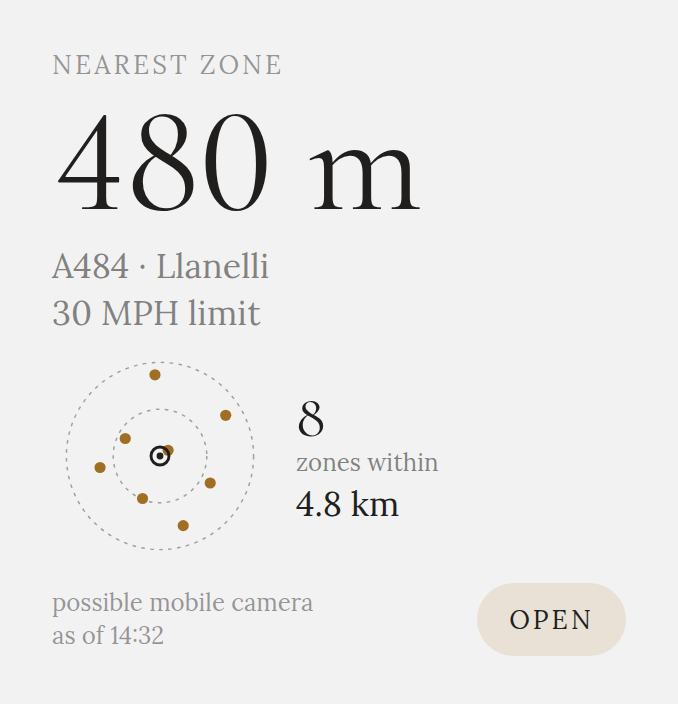
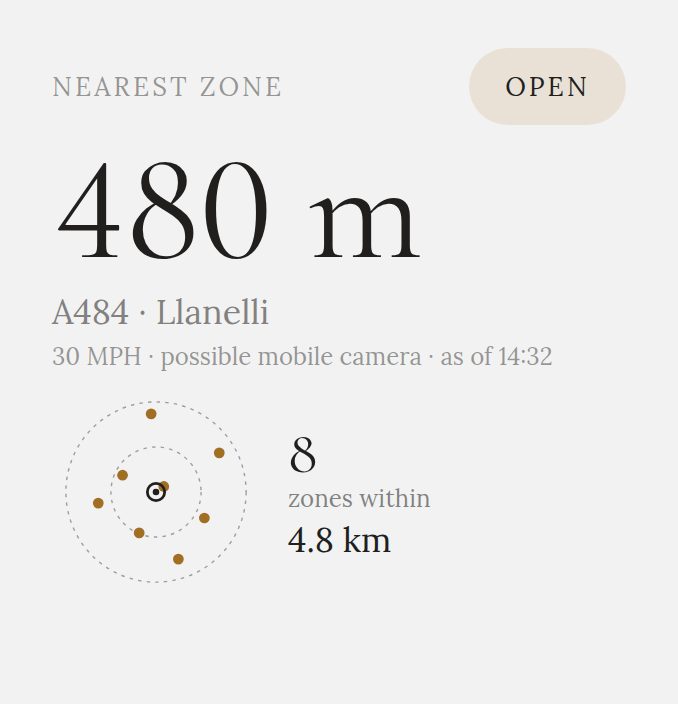
Put OPEN where it can be reached, and let a theme change arrive
Two faults, both mine, both found on the device.

The cover screen does not give a widget its whole declared height. The
bottom band is spoken for, so the OPEN button and the provenance line
were unreadable and untappable down there. Everything hangs from the top
now, with OPEN on the first line — the one place on a cover screen
guaranteed to be both visible and reachable — and the slack at the
bottom where losing it costs nothing. The diagram goes last on purpose:
it is the one element that still reads with its outer ring cut off.

And the widget kept its old palette after the app's Appearance changed.
The summary's writes are throttled, because a driving fix arrives every
second and redrawing that often would be waste — but the throttle is
about position and was gating everything. A changed setting sat unseen
until the driver moved a hundred metres, which from an armchair is
forever. `shouldRefresh` now separates the two: position is throttled,
anything else — the palette, a newly published list, gaining a fix —
writes immediately. It is a pure function with tests, including one
named for this bug, because the failure is invisible until someone
happens to notice the widget disagreeing with the app.

Claude-Session: https://claude.ai/code/session_01BnrkekNYJBbs8uTjYCXUX4

diff --git a/widgets/VergeWidget.tsx b/widgets/VergeWidget.tsx
@@ -86,63 +86,86 @@ export function VergeWidget({
 
   if (variant === 'cover') {
     const limit = summary?.nearestLimitMph;
+    const stamp = summary && showDistance ? ` · as of ${clock(summary.at)}` : '';
     return (
       <FlexWidget
+        clickAction="OPEN_APP"
         style={{
           height: 'match_parent',
           width: 'match_parent',
           flexDirection: 'column',
-          justifyContent: 'space-between',
+          // Everything hangs from the top. The cover screen does not give a
+          // widget its whole declared height — the bottom band is spoken for,
+          // and anything put there is unreadable and cannot be tapped. So the
+          // slack goes at the bottom, where losing it costs nothing.
+          justifyContent: 'flex-start',
           backgroundColor: ground,
           borderRadius: s.radius,
           paddingHorizontal: s.pad,
           paddingVertical: s.padY,
         }}
       >
-        {/* Tapping the reading opens the app too — the button is for finding, */}
-        {/* not for gatekeeping. */}
-        <FlexWidget clickAction="OPEN_APP" style={{ flexDirection: 'column', width: 'match_parent' }}>
+        {/* The way into the app sits on the top line, the one place on a cover */}
+        {/* screen guaranteed to be both visible and reachable. */}
+        <FlexWidget
+          style={{
+            flexDirection: 'row',
+            alignItems: 'center',
+            justifyContent: 'space-between',
+            width: 'match_parent',
+          }}
+        >
           <TextWidget
             text={showDistance ? 'NEAREST ZONE' : 'PUBLISHED ZONES'}
             style={{ fontSize: s.kicker, letterSpacing: 1.4, color: faint, fontFamily: 'Lora' }}
           />
-          <TextWidget
-            text={headline}
-            style={{ fontSize: s.headline, color: ink, fontFamily: 'CormorantGaramond', marginTop: 2 }}
-          />
-          <TextWidget
-            text={caption}
-            maxLines={2}
-            style={{ fontSize: s.caption, color: muted, fontFamily: 'Lora', marginTop: 4 }}
-          />
-          {limit ? (
+          <FlexWidget
+            clickAction="OPEN_APP"
+            style={{
+              paddingHorizontal: 18,
+              paddingVertical: 11,
+              borderRadius: 22,
+              backgroundColor: accentWash,
+            }}
+          >
             <TextWidget
-              text={`${limit} MPH limit`}
-              style={{ fontSize: s.caption, color: muted, fontFamily: 'Lora', marginTop: 2 }}
+              text="OPEN"
+              style={{ fontSize: s.kicker, letterSpacing: 1.6, color: ink, fontFamily: 'Lora' }}
             />
-          ) : (
-            <FlexWidget style={{ width: 0, height: 0 }} />
-          )}
+          </FlexWidget>
         </FlexWidget>
 
+        <TextWidget
+          text={headline}
+          style={{ fontSize: s.headline, color: ink, fontFamily: 'CormorantGaramond', marginTop: 4 }}
+        />
+        <TextWidget
+          text={caption}
+          maxLines={2}
+          style={{ fontSize: s.caption, color: muted, fontFamily: 'Lora', marginTop: 2 }}
+        />
+        <TextWidget
+          text={`${limit ? `${limit} MPH · ` : ''}possible mobile camera${stamp}`}
+          maxLines={2}
+          style={{ fontSize: s.foot, color: faint, fontFamily: 'Lora', marginTop: 4 }}
+        />
+
         {/*
-          The ground around you: zones as marks, you at the centre, two range
-          rings. Drawn from what the app already knows rather than fetched, so
-          it costs nothing and works with no signal.
+          Last, because it is the one thing that still reads when its bottom
+          edge is lost: a diagram missing its outer ring is still a diagram.
         */}
         {summary && summary.nearby.length ? (
           <FlexWidget
-            clickAction="OPEN_APP"
             style={{
               flexDirection: 'row',
               alignItems: 'center',
               width: 'match_parent',
-              marginTop: 6,
+              marginTop: 8,
             }}
           >
             <SvgWidget
               svg={localitySvg(summary.nearby, { mark: markInk, ring: ringInk, ink })}
-              style={{ width: 108, height: 108 }}
+              style={{ width: 104, height: 104 }}
             />
             <FlexWidget style={{ flexDirection: 'column', marginLeft: 14 }}>
               <TextWidget
@@ -162,47 +185,6 @@ export function VergeWidget({
         ) : (
           <FlexWidget style={{ width: 0, height: 0 }} />
         )}
-
-        <FlexWidget
-          style={{
-            flexDirection: 'row',
-            alignItems: 'center',
-            justifyContent: 'space-between',
-            width: 'match_parent',
-          }}
-        >
-          <FlexWidget style={{ flexDirection: 'column', flexGap: 0, width: 'wrap_content' }}>
-            <TextWidget
-              text="possible mobile camera"
-              style={{ fontSize: s.foot, color: faint, fontFamily: 'Lora' }}
-            />
-            {summary && showDistance ? (
-              <TextWidget
-                text={`as of ${clock(summary.at)}`}
-                style={{ fontSize: s.foot, color: faint, fontFamily: 'Lora', marginTop: 1 }}
-              />
-            ) : (
-              <FlexWidget style={{ width: 0, height: 0 }} />
-            )}
-          </FlexWidget>
-
-          {/* A real target rather than a hint: the whole point of the widget is */}
-          {/* getting to the live map without unfolding the phone. */}
-          <FlexWidget
-            clickAction="OPEN_APP"
-            style={{
-              paddingHorizontal: 16,
-              paddingVertical: 10,
-              borderRadius: 20,
-              backgroundColor: accentWash,
-            }}
-          >
-            <TextWidget
-              text="OPEN"
-              style={{ fontSize: s.kicker, letterSpacing: 1.6, color: ink, fontFamily: 'Lora' }}
-            />
-          </FlexWidget>
-        </FlexWidget>
       </FlexWidget>
     );
   }

diff --git a/widgets/useWidgetSummary.tsx b/widgets/useWidgetSummary.tsx
@@ -4,6 +4,7 @@ import { requestWidgetUpdate } from 'react-native-android-widget';
 
 import { VergeWidget } from './VergeWidget';
 import { WIDGET_NAME, variantForHeight } from './names';
+import { RefreshState, shouldRefresh } from './refresh';
 import { widgetIsDark } from './theme';
 
 import { LatLng, offsetMetres } from '../data/geo';
@@ -37,22 +38,28 @@ export function useWidgetSummary({
   originIsReal: boolean;
   theme: Theme;
 }) {
-  const lastWrite = useRef(0);
-  const lastMetres = useRef<number | null>(null);
+  const last = useRef<RefreshState | null>(null);
 
   useEffect(() => {
     const nearest = zones.length ? nearestZone(zones, origin) : null;
     const metres = nearest ? distanceTo(nearest, origin) : null;
+    /** Everything the widget shows that does not move with the driver. */
+    const signature = `${zones.length}|${listedOn ?? ''}|${theme}|${originIsReal}`;
 
-    const movedEnough =
-      lastMetres.current == null ||
-      metres == null ||
-      Math.abs(metres - lastMetres.current) >= MIN_MOVE_M;
-    const dueAnyway = Date.now() - lastWrite.current >= MIN_INTERVAL_MS;
-    if (lastWrite.current && !movedEnough && !dueAnyway) return;
-
-    lastWrite.current = Date.now();
-    lastMetres.current = metres;
+    const now = Date.now();
+    if (
+      !shouldRefresh({
+        last: last.current,
+        now,
+        metres,
+        signature,
+        minIntervalMs: MIN_INTERVAL_MS,
+        minMoveM: MIN_MOVE_M,
+      })
+    ) {
+      return;
+    }
+    last.current = { at: now, metres, signature };
 
     // The ground around the driver, as offsets. Nearest first, so the cap
     // drops the far ones rather than whichever happened to be listed last.

diff --git a/tests/widget-refresh.test.ts b/tests/widget-refresh.test.ts
@@ -1,0 +1,47 @@
+import assert from 'node:assert/strict';
+import { test } from 'node:test';
+
+import { RefreshState, shouldRefresh } from '../widgets/refresh';
+
+const LAST: RefreshState = { at: 1_000_000, metres: 500, signature: '6|2026-09-06|system' };
+const ask = (over: Partial<Parameters<typeof shouldRefresh>[0]>) =>
+  shouldRefresh({
+    last: LAST,
+    now: LAST.at + 1_000,
+    metres: 500,
+    signature: LAST.signature,
+    minIntervalMs: 60_000,
+    minMoveM: 100,
+    ...over,
+  });
+
+test('a standing still driver does not rewrite the summary every second', () => {
+  assert.equal(ask({ metres: 480 }), false);
+});
+
+test('a hundred metres of movement rewrites it', () => {
+  assert.equal(ask({ metres: 380 }), true);
+});
+
+test('the throttle expires', () => {
+  assert.equal(ask({ now: LAST.at + 60_000 }), true);
+});
+
+test('changing the theme reaches the widget immediately', () => {
+  // The bug this guards: the palette is not positional, so a distance
+  // threshold must not decide when the driver sees it.
+  assert.equal(ask({ signature: '6|2026-09-06|dark' }), true);
+});
+
+test('a newly published list reaches the widget immediately', () => {
+  assert.equal(ask({ signature: '7|2026-09-07|system' }), true);
+});
+
+test('the first write always happens', () => {
+  assert.equal(ask({ last: null }), true);
+});
+
+test('gaining or losing a fix rewrites rather than comparing against nothing', () => {
+  assert.equal(ask({ metres: null }), true);
+  assert.equal(ask({ last: { ...LAST, metres: null } }), true);
+});

diff --git a/widgets/refresh.ts b/widgets/refresh.ts
@@ -1,0 +1,44 @@
+/**
+ * When the widget's stored summary is worth rewriting.
+ *
+ * Most of what the widget shows moves with the driver, and a fix arrives every
+ * second, so position-driven writes are throttled — redrawing a widget that
+ * often would be wasteful at the precision it shows.
+ *
+ * Everything else must not be throttled. A setting the driver just changed, or
+ * a list that just refreshed, has to reach the widget now: waiting a minute for
+ * a distance threshold nobody crossed makes the widget look broken. That was a
+ * real bug — changing the app's Appearance left the widget in the old palette
+ * until the driver happened to move a hundred metres.
+ */
+
+export type RefreshState = {
+  /** When the last write happened, epoch ms. */
+  at: number;
+  /** Metres to the nearest zone at that write, or null with no fix. */
+  metres: number | null;
+  /** Everything about the summary that is not positional, as one string. */
+  signature: string;
+};
+
+export function shouldRefresh({
+  last,
+  now,
+  metres,
+  signature,
+  minIntervalMs,
+  minMoveM,
+}: {
+  last: RefreshState | null;
+  now: number;
+  metres: number | null;
+  signature: string;
+  minIntervalMs: number;
+  minMoveM: number;
+}): boolean {
+  if (!last) return true;
+  if (last.signature !== signature) return true;
+  if (now - last.at >= minIntervalMs) return true;
+  if (last.metres == null || metres == null) return true;
+  return Math.abs(metres - last.metres) >= minMoveM;
+}

diff --git a/README.md b/README.md
@@ -246,6 +246,12 @@ with real space around them.
 At panel size the widget carries the drive HUD's reading — distance, road,
 limit — a **locality diagram**, and an **OPEN** button.
 
+Everything hangs from the top, and **OPEN sits on the first line**. The cover
+screen does not give a widget its whole declared height: the bottom band is
+spoken for, and anything put there is unreadable and cannot be tapped. So the
+slack goes at the bottom where losing it costs nothing, and the diagram goes
+last because it is the one element that still reads with its outer ring cut off.
+
 The diagram (`widgets/locality.ts`) is not a street map, deliberately. An
 Android widget draws a static image, so a real map would be a photograph of
 somewhere you *were*, and a photograph of a map reads as live in a way a diagram
@@ -255,7 +261,11 @@ radius in words beside it. It costs nothing, needs no signal, and is rendered as
 an SVG string the widget toolkit turns into the bitmap.
 
 The palette comes from the app's Appearance setting rather than the system
-(`widgets/theme.ts`), so a widget matches the app that owns it. `system` is
+(`widgets/theme.ts`), so a widget matches the app that owns it. Getting that to
+*arrive* needed `widgets/refresh.ts`: the summary's writes are throttled because
+a driving fix lands every second, but that throttle is about position and must
+not gate anything else. It did, and a changed Appearance sat unseen until the
+driver moved a hundred metres. `system` is
 resolved when the widget renders, not when the summary is written — the phone
 can switch to dark hours after the app was last open, and the widget follows it
 there.
